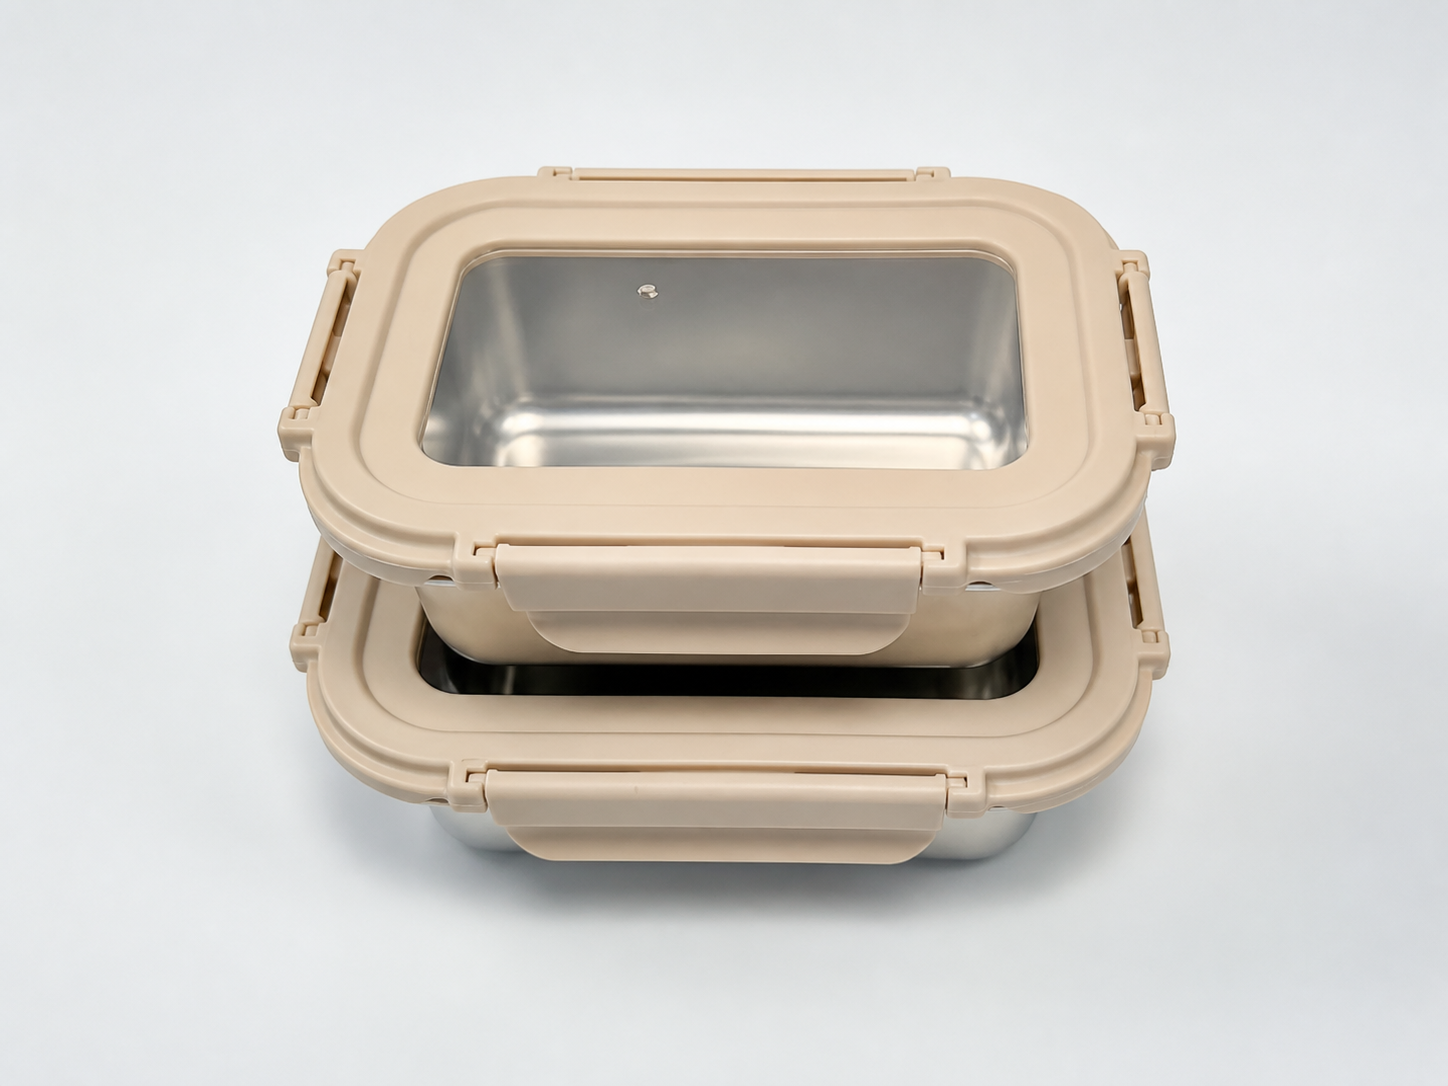
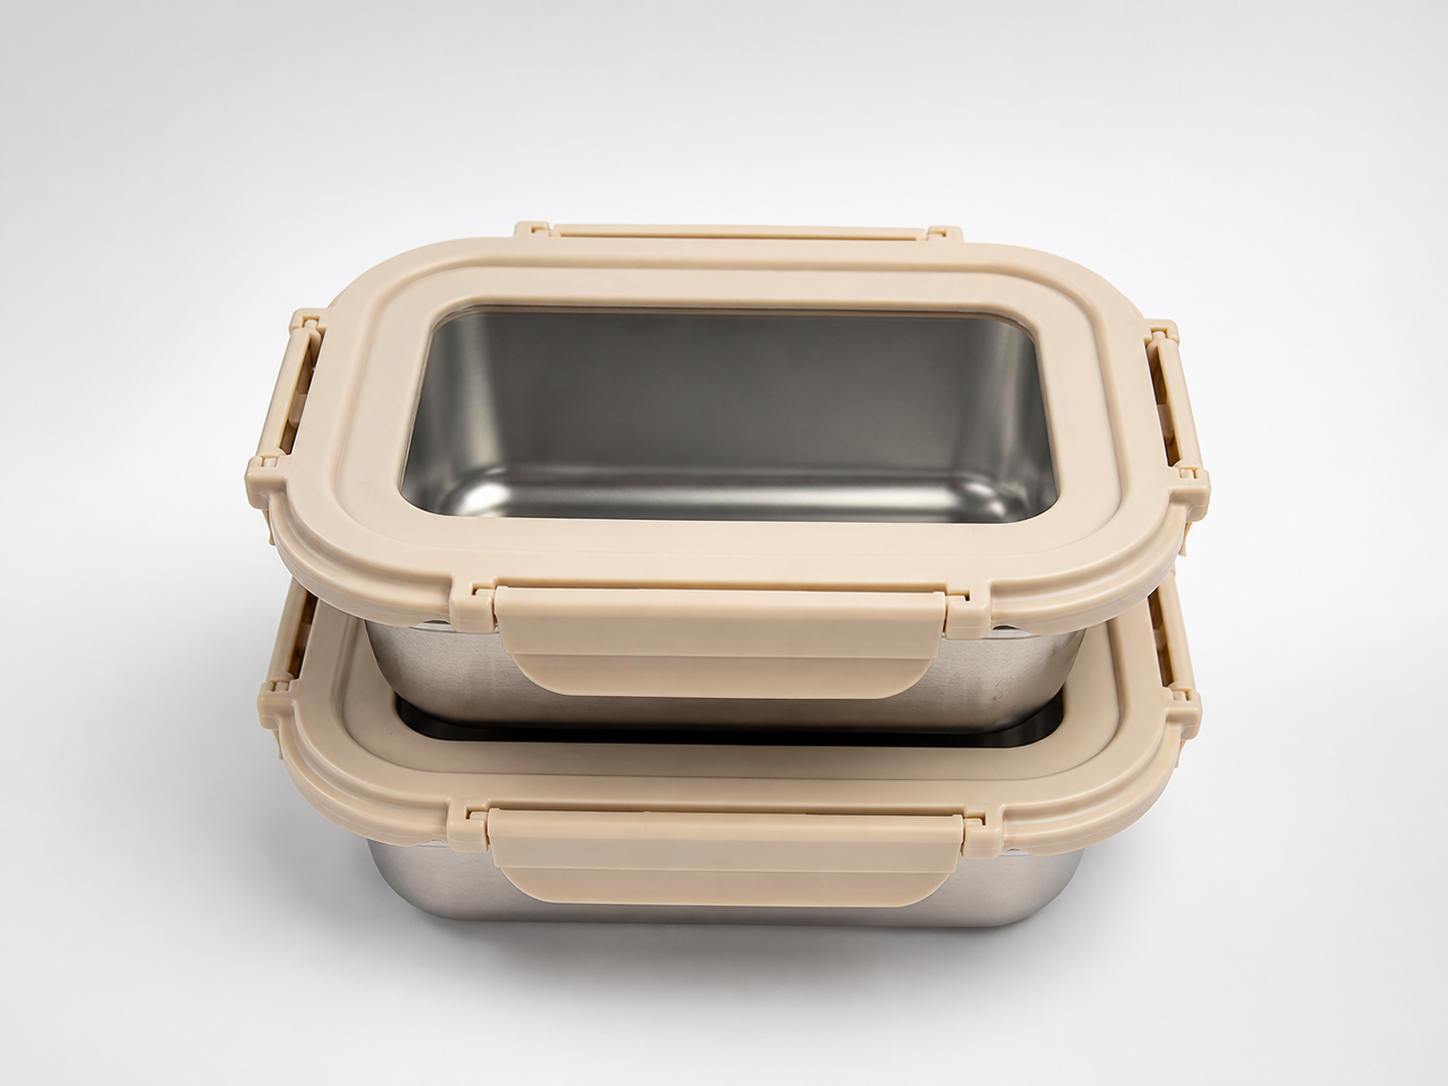
fix: finalize beautified catalog imagery

diff --git a/lib/product-catalog.ts b/lib/product-catalog.ts
@@ -22,37 +22,37 @@ export const expandedCategories: ProductCategory[] = [
   {
     slug: "hinged-plastic-containers",
     name: "Hinged Plastic Containers",
-    image: "/images/products/expanded/slide-01.png",
+    image: "/images/products/beautified/slide-01.png",
     summary: "Vented and non-vented hinged food container formats in square, rectangular, and round shapes.",
   },
   {
     slug: "hinged-glass-lid-containers",
     name: "Hinged Glass-Lid Containers",
-    image: "/images/products/expanded/slide-07.png",
+    image: "/images/products/beautified/slide-07.png",
     summary: "Hinged glass-lid container formats with vented and non-vented configurations.",
   },
   {
     slug: "hinged-stainless-steel-lid-containers",
     name: "Hinged Stainless-Steel-Lid Containers",
-    image: "/images/products/expanded/slide-13.png",
+    image: "/images/products/beautified/slide-13.png",
     summary: "Hinged stainless-steel-lid formats shown with compatible container and bowl options.",
   },
   {
     slug: "two-clip-plastic-glass-containers",
     name: "Two-Clip Plastic-and-Glass Containers",
-    image: "/images/products/expanded/slide-17.png",
+    image: "/images/products/beautified/slide-17.png",
     summary: "Two-clip plastic-and-glass container formats in square, rectangular, and round shapes.",
   },
   {
     slug: "silicone-glass-containers",
     name: "Silicone-and-Glass Containers",
-    image: "/images/products/expanded/slide-24.png",
+    image: "/images/products/beautified/slide-24.png",
     summary: "Silicone-and-glass food container formats represented in the supplied product range.",
   },
   {
     slug: "silicone-glass-lids",
     name: "Silicone-and-Glass Lids",
-    image: "/images/products/expanded/slide-36.jpg",
+    image: "/images/products/beautified/slide-36.png",
     summary: "Two-clip silicone-and-glass lid formats, including vacuum-lid variants.",
   },
 ]
